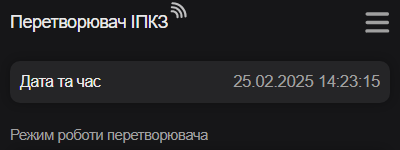
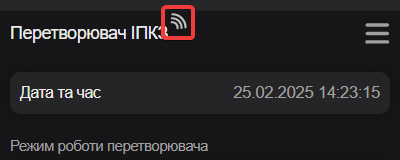
1

diff --git a/docs/web-interface.md b/docs/web-interface.md
@@ -19,8 +19,7 @@ icon: material/web
 - [x] В перетворювачі почне працювати Wi-Fi точка доступу з назвою `IPKZ-XXXXXX`.  
    Де `XXXXXX` - це унікальна послідовність цифр від 0 до 9 та латинських букв від A до F.   
    Для прикладу, назва точки доступу `IPKZ-F2B1D4`.
-- [x] Відкрийте *Налаштування* на Вашому телефоні й підключіться до цієї Wi-Fi мережі `IPKZ-F2B1D4`.    
-Мережа відкрита й пароль вводити не потрібно.    
+- [x] Підключіться до цієї Wi-Fi мережі `IPKZ-F2B1D4`. Мережа відкрита й пароль вводити не потрібно.    
 - [x] Автоматично запуститься браузер й відкриється Веб-інтерфейс перетворювача.
 - [x] Wi-Fi точка доступу перетворювача перестане працювати після закриття дверцят шафи.
 
@@ -47,14 +46,15 @@ icon: material/web
 
 ## Контроль якості зв'язку { #comm-control data-toc-label="Якість зв'язку" }
 
-Перетворювач контролює якість Wi-Fi зв'язку між ним та підключеним пристроєм. Після назви сторінки є піктограма <img src = "../assets/svg/wifi1.svg"/>, яка показує реальну якість зв'язку.
+Перетворювач контролює якість Wi-Fi зв'язку між ним та підключеним пристроєм.   
+Після назви сторінки є піктограма ![Відмінна якість зв'язку.](./assets//svg/wifi1.svg), яка показує реальну якість зв'язку.
 
-![Якість звязку](./assets/images/theme/wifi2.png)
+![Якість звязку](./assets/images/theme/wifi.png)
 
-- Відмінна якість зв'язку <img src = "../assets/svg/wifi1.svg"/> 
-- Середня якість зв'язку <img src = "../assets/svg/wifi2.svg"/> 
-- Погана якість зв'язку <img src = "../assets/svg/wifi3.svg"/>
-- З'єднання втрачено <img src = "../assets/svg/wifi4.svg"/>
+- Відмінна якість зв'язку ![Відмінна якість зв'язку.](./assets//svg/wifi1.svg)
+- Середня якість зв'язку ![Середня якість зв'язку.](./assets//svg/wifi2.svg)
+- Погана якість зв'язку ![Погана якість зв'язку.](./assets//svg/wifi3.svg)
+- З'єднання втрачено ![З'єднання втрачено.](./assets//svg/wifi4.svg)
 
 Насправді якість з'язку повинна бути відмінна завжди, тому що оператор знаходиться в метрі або декількох метрах від перетворювача. 
 
@@ -100,7 +100,7 @@ icon: material/web
 
     Для збільшення натисніть на зображенні.
 
-    ![Головна сторінка.](./assets/images/main/main.png){ width="150" }  
+    ![Головна сторінка.](./assets/images/main/main.png){ width="250" }  
 
 ### Зміна режиму роботи { #select-mode data-toc-label='Зміна режиму' }
 
@@ -172,7 +172,7 @@ icon: material/web
 
     Для збільшення натисніть на зображенні.
 
-    ![Cторінка налаштувань.](./assets/images/settings/settings2.png){ width="200" }  
+    ![Cторінка налаштувань.](./assets/images/settings/settings2.png){ width="250" }  
 
 ### Обмеження вихідного струму та напруги при аварії { #settings-limits data-toc-label='Обмеження струму та напруги' }
 
@@ -352,7 +352,7 @@ icon: material/web
 
     Для збільшення натисніть на зображенні.
 
-    ![Cторінка Про перетворювач.](./assets/images/about/about-full.png){ width="200"}
+    ![Cторінка Про перетворювач.](./assets/images/about/about-full.png){ width="250"}
 
 ### Повернутися на головну сторінку { #go-about-main data-toc-label='Повернутися на головну' }
 <div class="annotate" markdown>

diff --git a/docs/manual-interface.md b/docs/manual-interface.md
@@ -51,15 +51,36 @@ icon: material/gesture-tap-box
 
 Екран дисплея одночасно з тим показує на якому етапі керування або в якому режимі знаходиться перетворювач. Сенсор дисплея використовується, як додаткова можливість керування.
 
-## Екран запуску
+## Сторінка запуску { #manual-interface-logo data-toc-label='Запуск' }
 
+Після подачі живлення на дисплеї з'явиться логотип ТОВ "Технотек" та назва моделі перетворювача. 
 
+![Запуск.](./assets/images/nex/logo.png)
 
-## Основний екран { #manual-interface-main data-toc-label='Основний екран' }
+## Інформаційні сторінки { #manual-interface-info data-toc-label='Інформація' }
 
-## Вибір режиму роботи перетворювача { #manual-interface-mode data-toc-label='Вибір режиму роботи' }
+Є дві інформаційні сторінки.   
+Перша сторінка відображається протягом 12 секунд.
 
-## Перехід до налаштувань перетворювача { #manual-interface-mode data-toc-label='Налаштування' }
+![Перша інформація.](./assets/images/nex/info1.png)
+
+Друга сторінка відображається протягом 6 секунд. Й далі по колу.
+
+![Друга інформація.](./assets/images/nex/info2.png)
+
+Інформація оновлюється в режимі реального часу.
+
+## Сторінка вибіру режиму роботи перетворювача { #manual-interface-mode data-toc-label='Вибір режиму роботи' }
+
+![Сторінка вибіру режиму роботи.](./assets/images/nex/mode.png)
+
+![Вибір режиму роботи.](./assets/images/nex/mode-select.png)
+
+![Зміна режиму роботи.](./assets/images/nex/mode-change.png)
+
+![Стабілізація напруги.](./assets/images/nex/info-voltage.png)
+
+## Меню налаштувань перетворювача { #manual-interface-mode data-toc-label='Налаштування' }
 
 ## Помилки та попередження перетворювача { #manual-interface-error data-toc-label='Помилки та попередження' }
 
